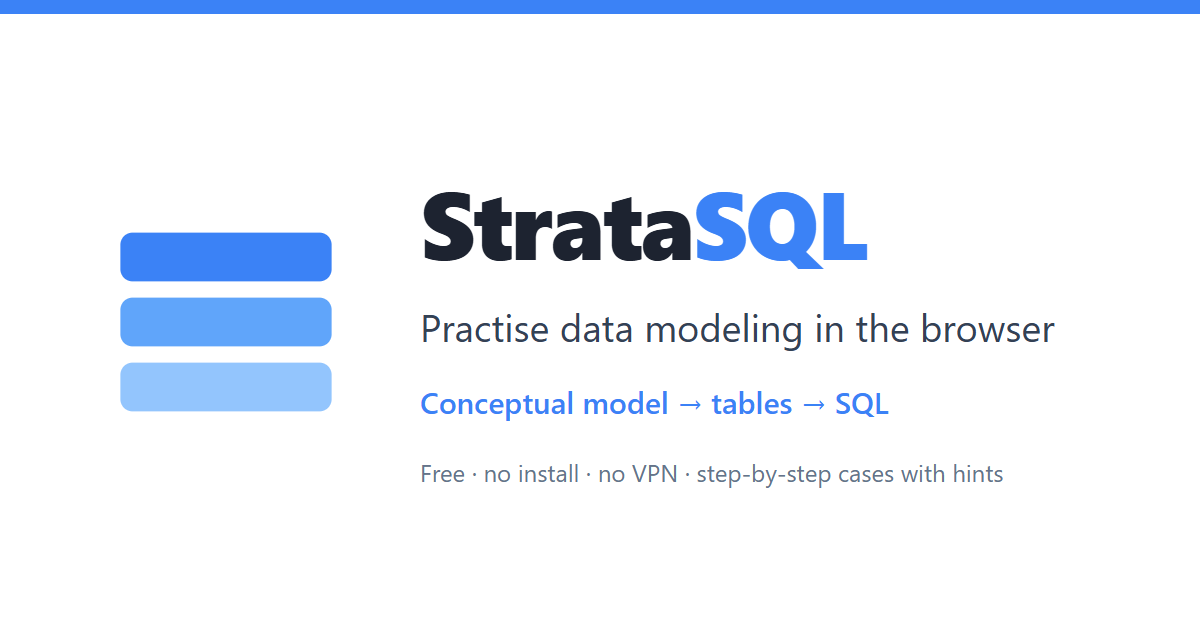
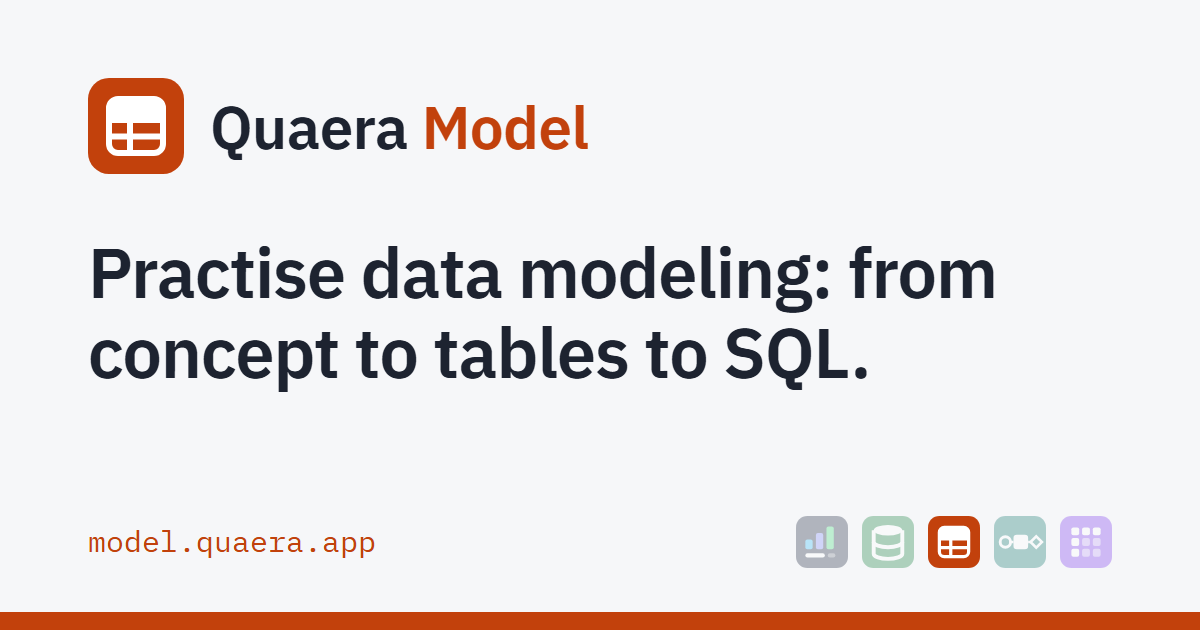
Link preview: og-image in the family look, twitter:image, no long dash in og:title (v0.10.6)

diff --git a/index.html b/index.html
@@ -11,14 +11,15 @@
     <meta name="description" content="Practise data modeling in the browser: draw a conceptual model, get the tables and the SQL Server script. Free, no install, no VPN, step-by-step cases with hints." />
     <meta property="og:type" content="website" />
     <meta property="og:site_name" content="Quaera Model" />
-    <meta property="og:title" content="Quaera Model — practise data modeling in the browser" />
+    <meta property="og:title" content="Quaera Model: practise data modeling in the browser" />
     <meta property="og:description" content="Conceptual model → tables → SQL. Free, no install, no VPN, step-by-step cases with hints." />
     <meta property="og:url" content="https://model.quaera.app/" />
-    <meta property="og:image" content="https://model.quaera.app/og-image.png" />
+    <meta property="og:image" content="https://model.quaera.app/og-image.png?v=family" />
     <meta property="og:image:width" content="1200" />
     <meta property="og:image:height" content="630" />
-    <meta property="og:image:alt" content="Quaera Model logo: an orange table sign, with the text Conceptual model → tables → SQL" />
+    <meta property="og:image:alt" content="Quaera Model: practise data modeling, from concept to tables to SQL" />
     <meta name="twitter:card" content="summary_large_image" />
+    <meta name="twitter:image" content="https://model.quaera.app/og-image.png?v=family" />
     <script>
       try {
         if (localStorage.getItem('stratasql.borders') === 'soft') document.documentElement.setAttribute('data-borders', 'soft')

diff --git a/ROADMAP.md b/ROADMAP.md
@@ -32,6 +32,8 @@ Stages follow SPEC §12. A stage is done only when its acceptance criteria pass.
 
 **Earlier (2026-10-04, v0.6.0 + UX review):** 8 cases + 5 exercises, PowerDesigner cross-check, live at model.quaera.app. The UX review fixed the first-minute rough edges (gentle hint for a new entity, name focus, wrapping phrases, zoom, minimap, phone note). Then the two top backlog items: the walkthrough now asks before some steps (predict → see), and level 1 hides the model until the text is tagged. Then the owner's requests: default names as grey hints, text size, canvas/panel colours, Save as. Backlog 1–4, name suggestions, text size and author links are done since; the open work is in **Next steps** below. LinkedIn post after the professor answers about the 3 course cases.
 
+- 2026-10-19, v0.10.6: link-preview card (og:image, twitter:image, 1200x630) redrawn in the family look by `quaera/scripts/make-og.mjs` (needs Edge or Chrome; the PNG is committed). og:title without the long dash, absolute URLs, `twitter:card=summary_large_image`.
+
 ## Next steps (by priority, 2026-10-04)
 
 1. ✅ **Export to PowerDesigner `.cdm`** (2026-10-04) — **File → Export for PowerDesigner**; ✅ the owner opened an exported Hotel `.cdm` in PowerDesigner 16 (2026-10-04): entities, data types, M, identifiers, relationships and dependencies all came through. The diagram straddled PD's page delimiters, so the export now centres it on (0, 0) like PD's own files. Still to try: generate the PDM in PD from an exported file
